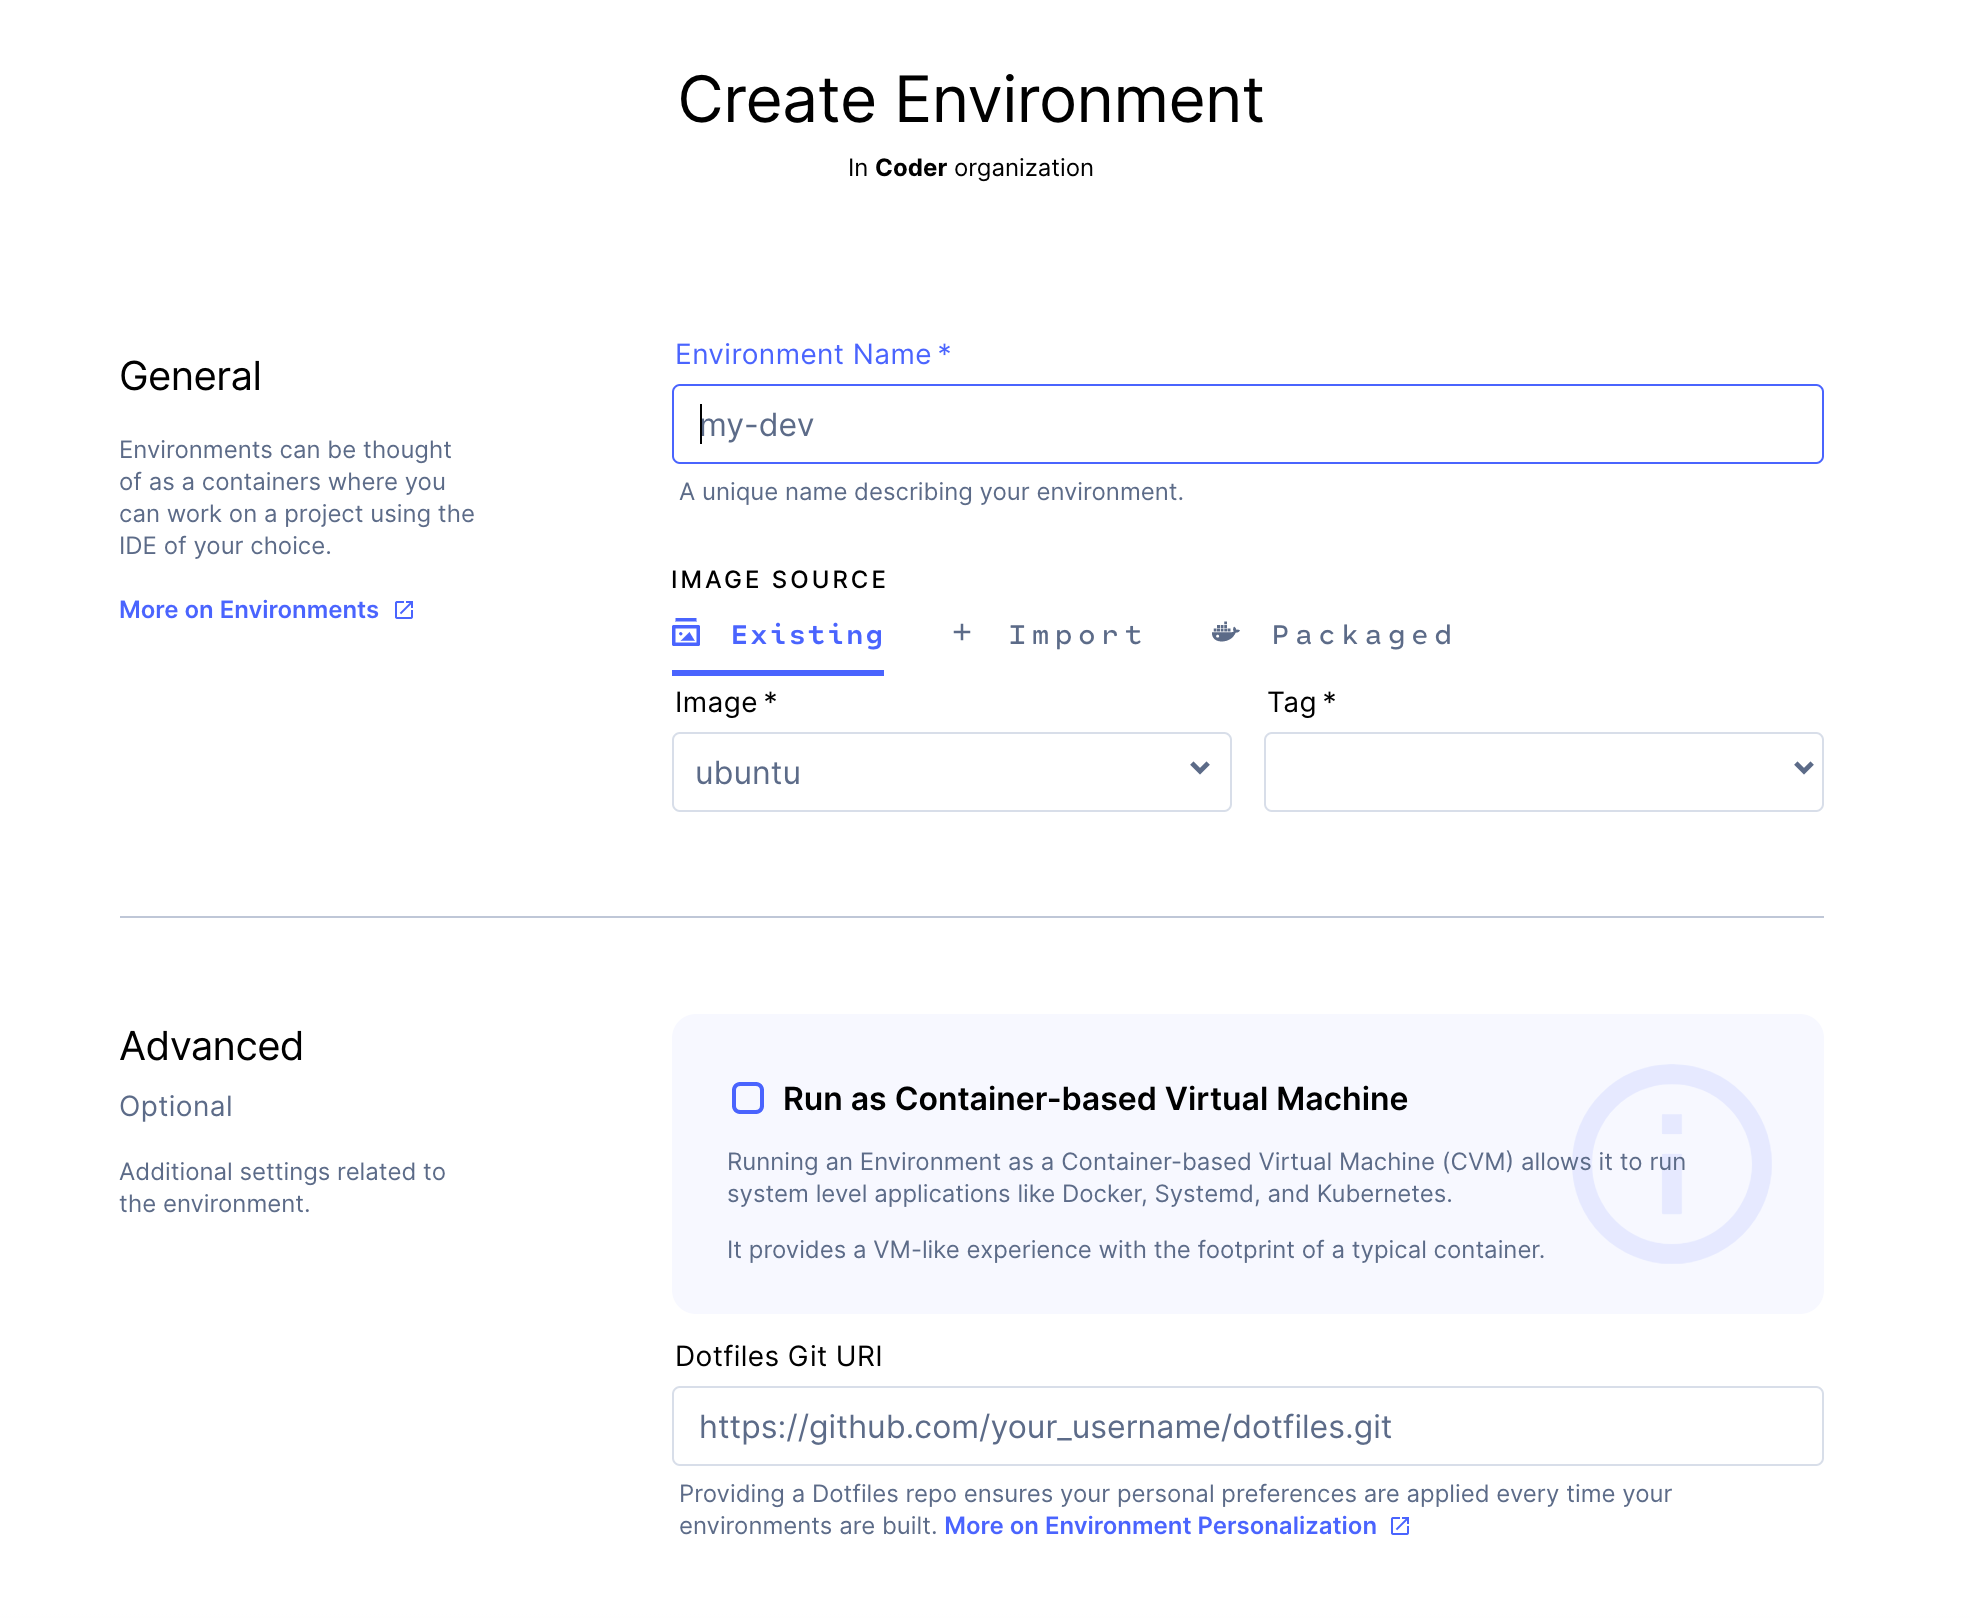
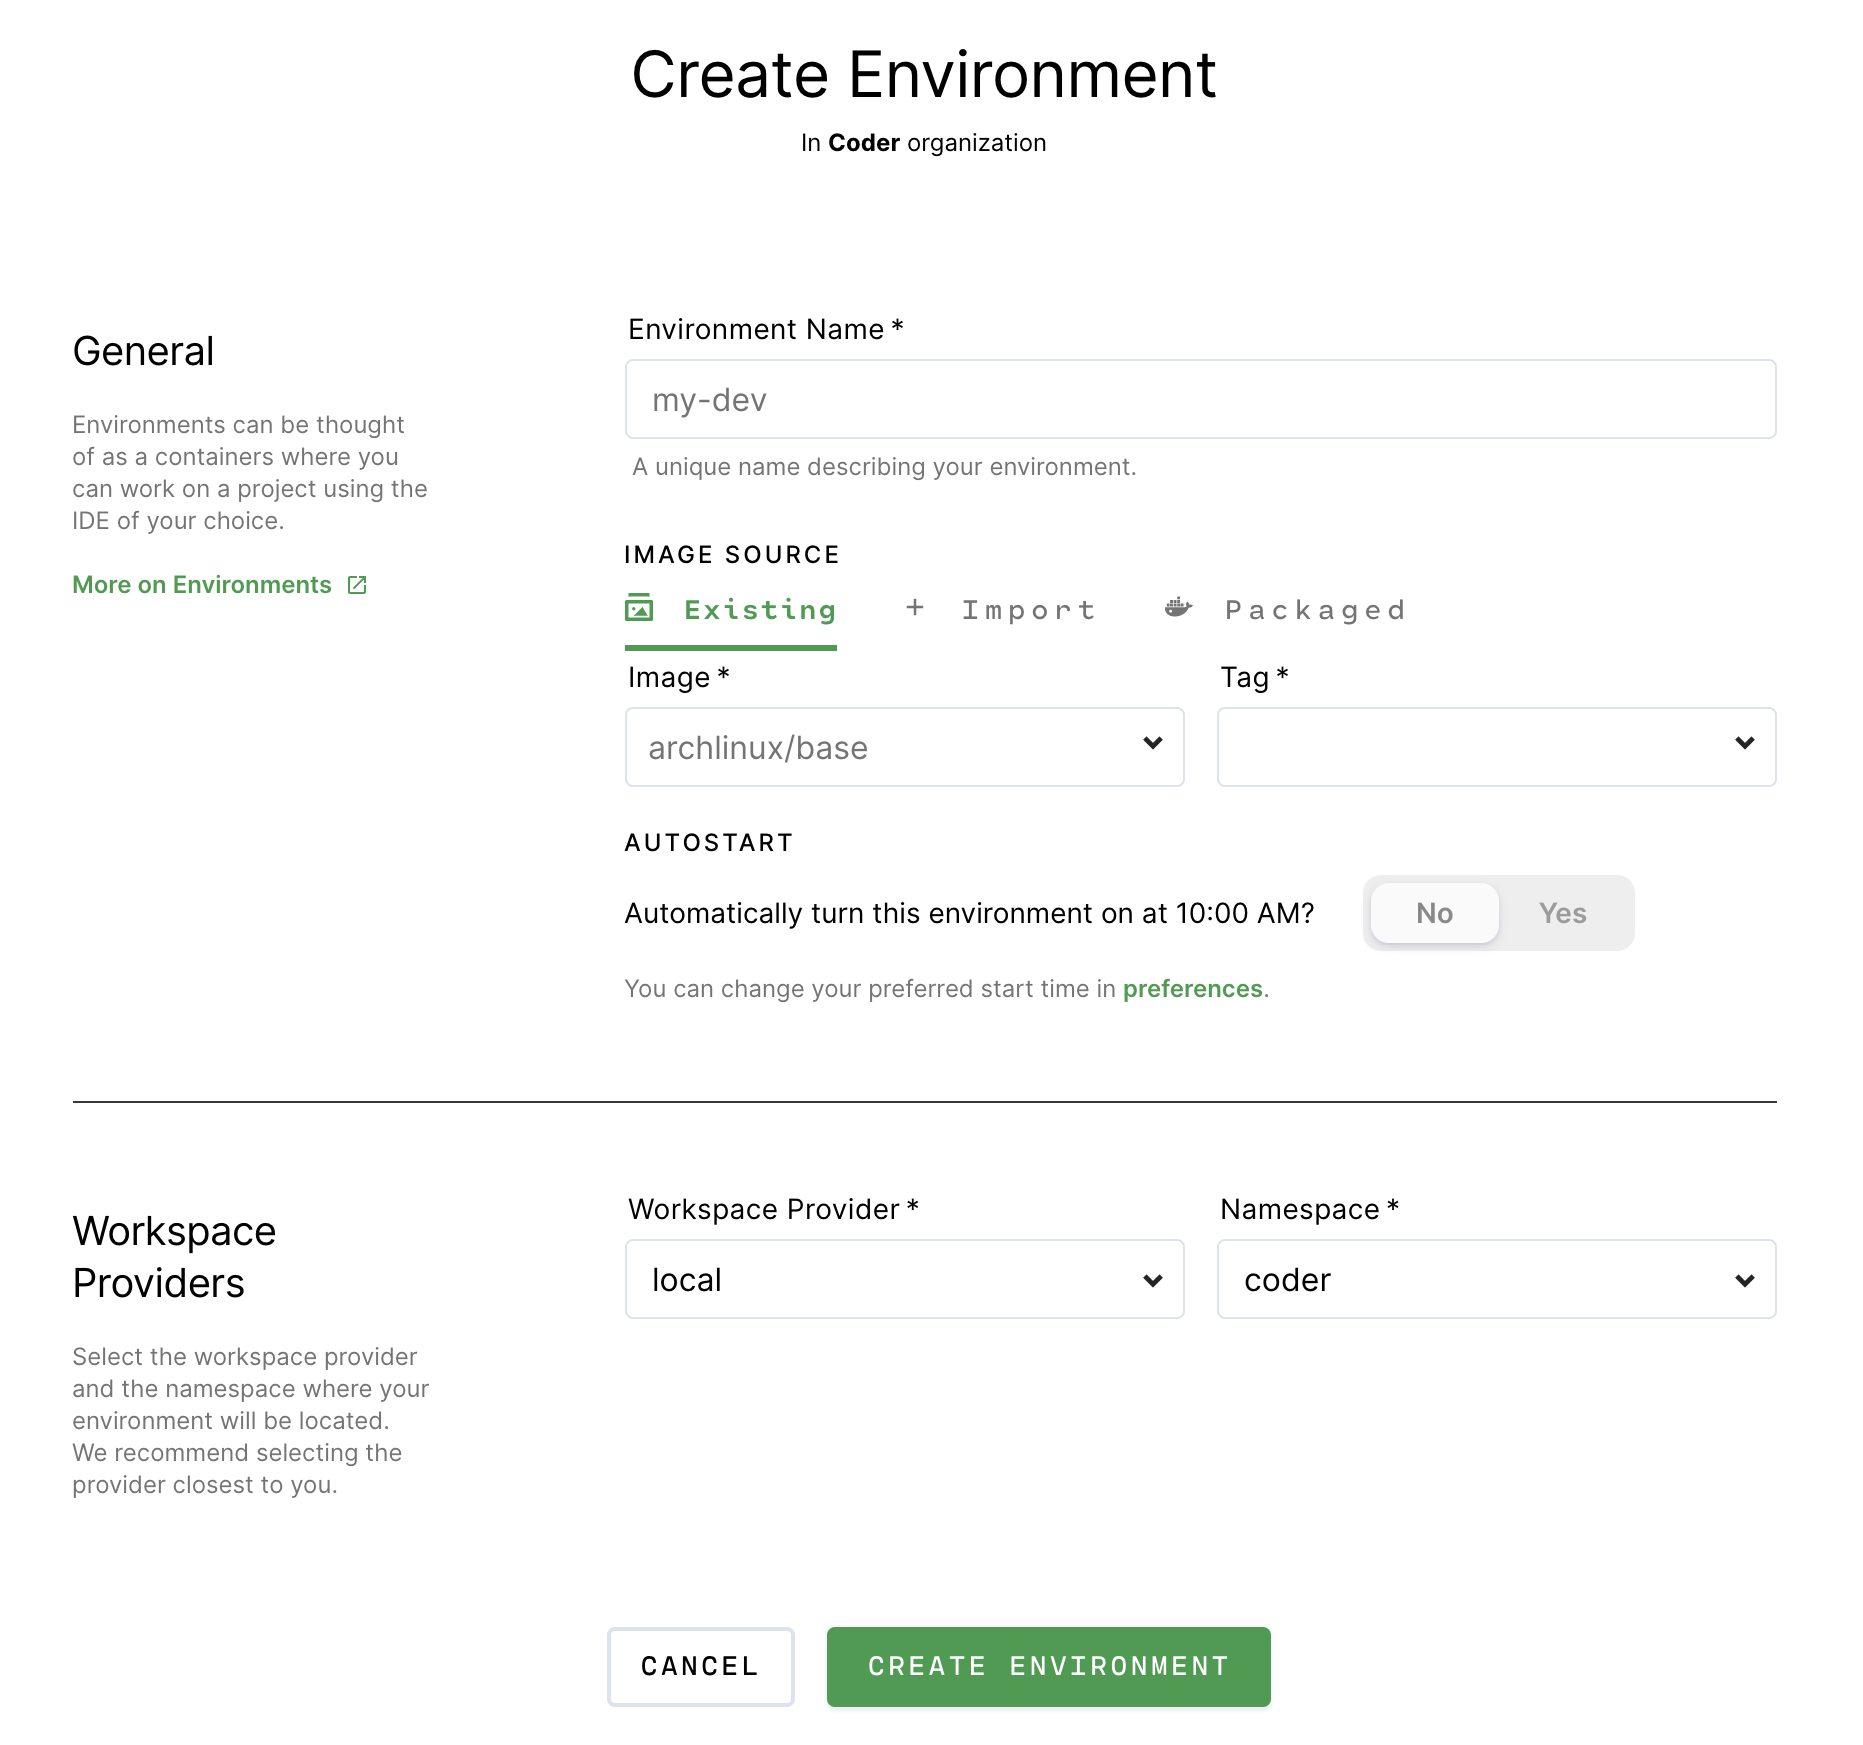
Add workspace provider info, update screenshot

diff --git a/environments/getting-started.md b/environments/getting-started.md
@@ -19,6 +19,10 @@ existing environments. Click the **New Environment** button.
 Enter a friendly name for your environment, along with an
 [Image](../images/index.md) to use.
 
+Select the **Workspace Provider** and the **Namespace** where your environment
+will be located. We recommend selecting the workspace provider closest to you to
+minimize the latency you encounter when using Coder.
+
 When done, click **Create** to proceed. Coder redirects you to an overview page
 for your environment during the build process. Learn more about the Environment
 [creation parameters](./environment-params.md).
